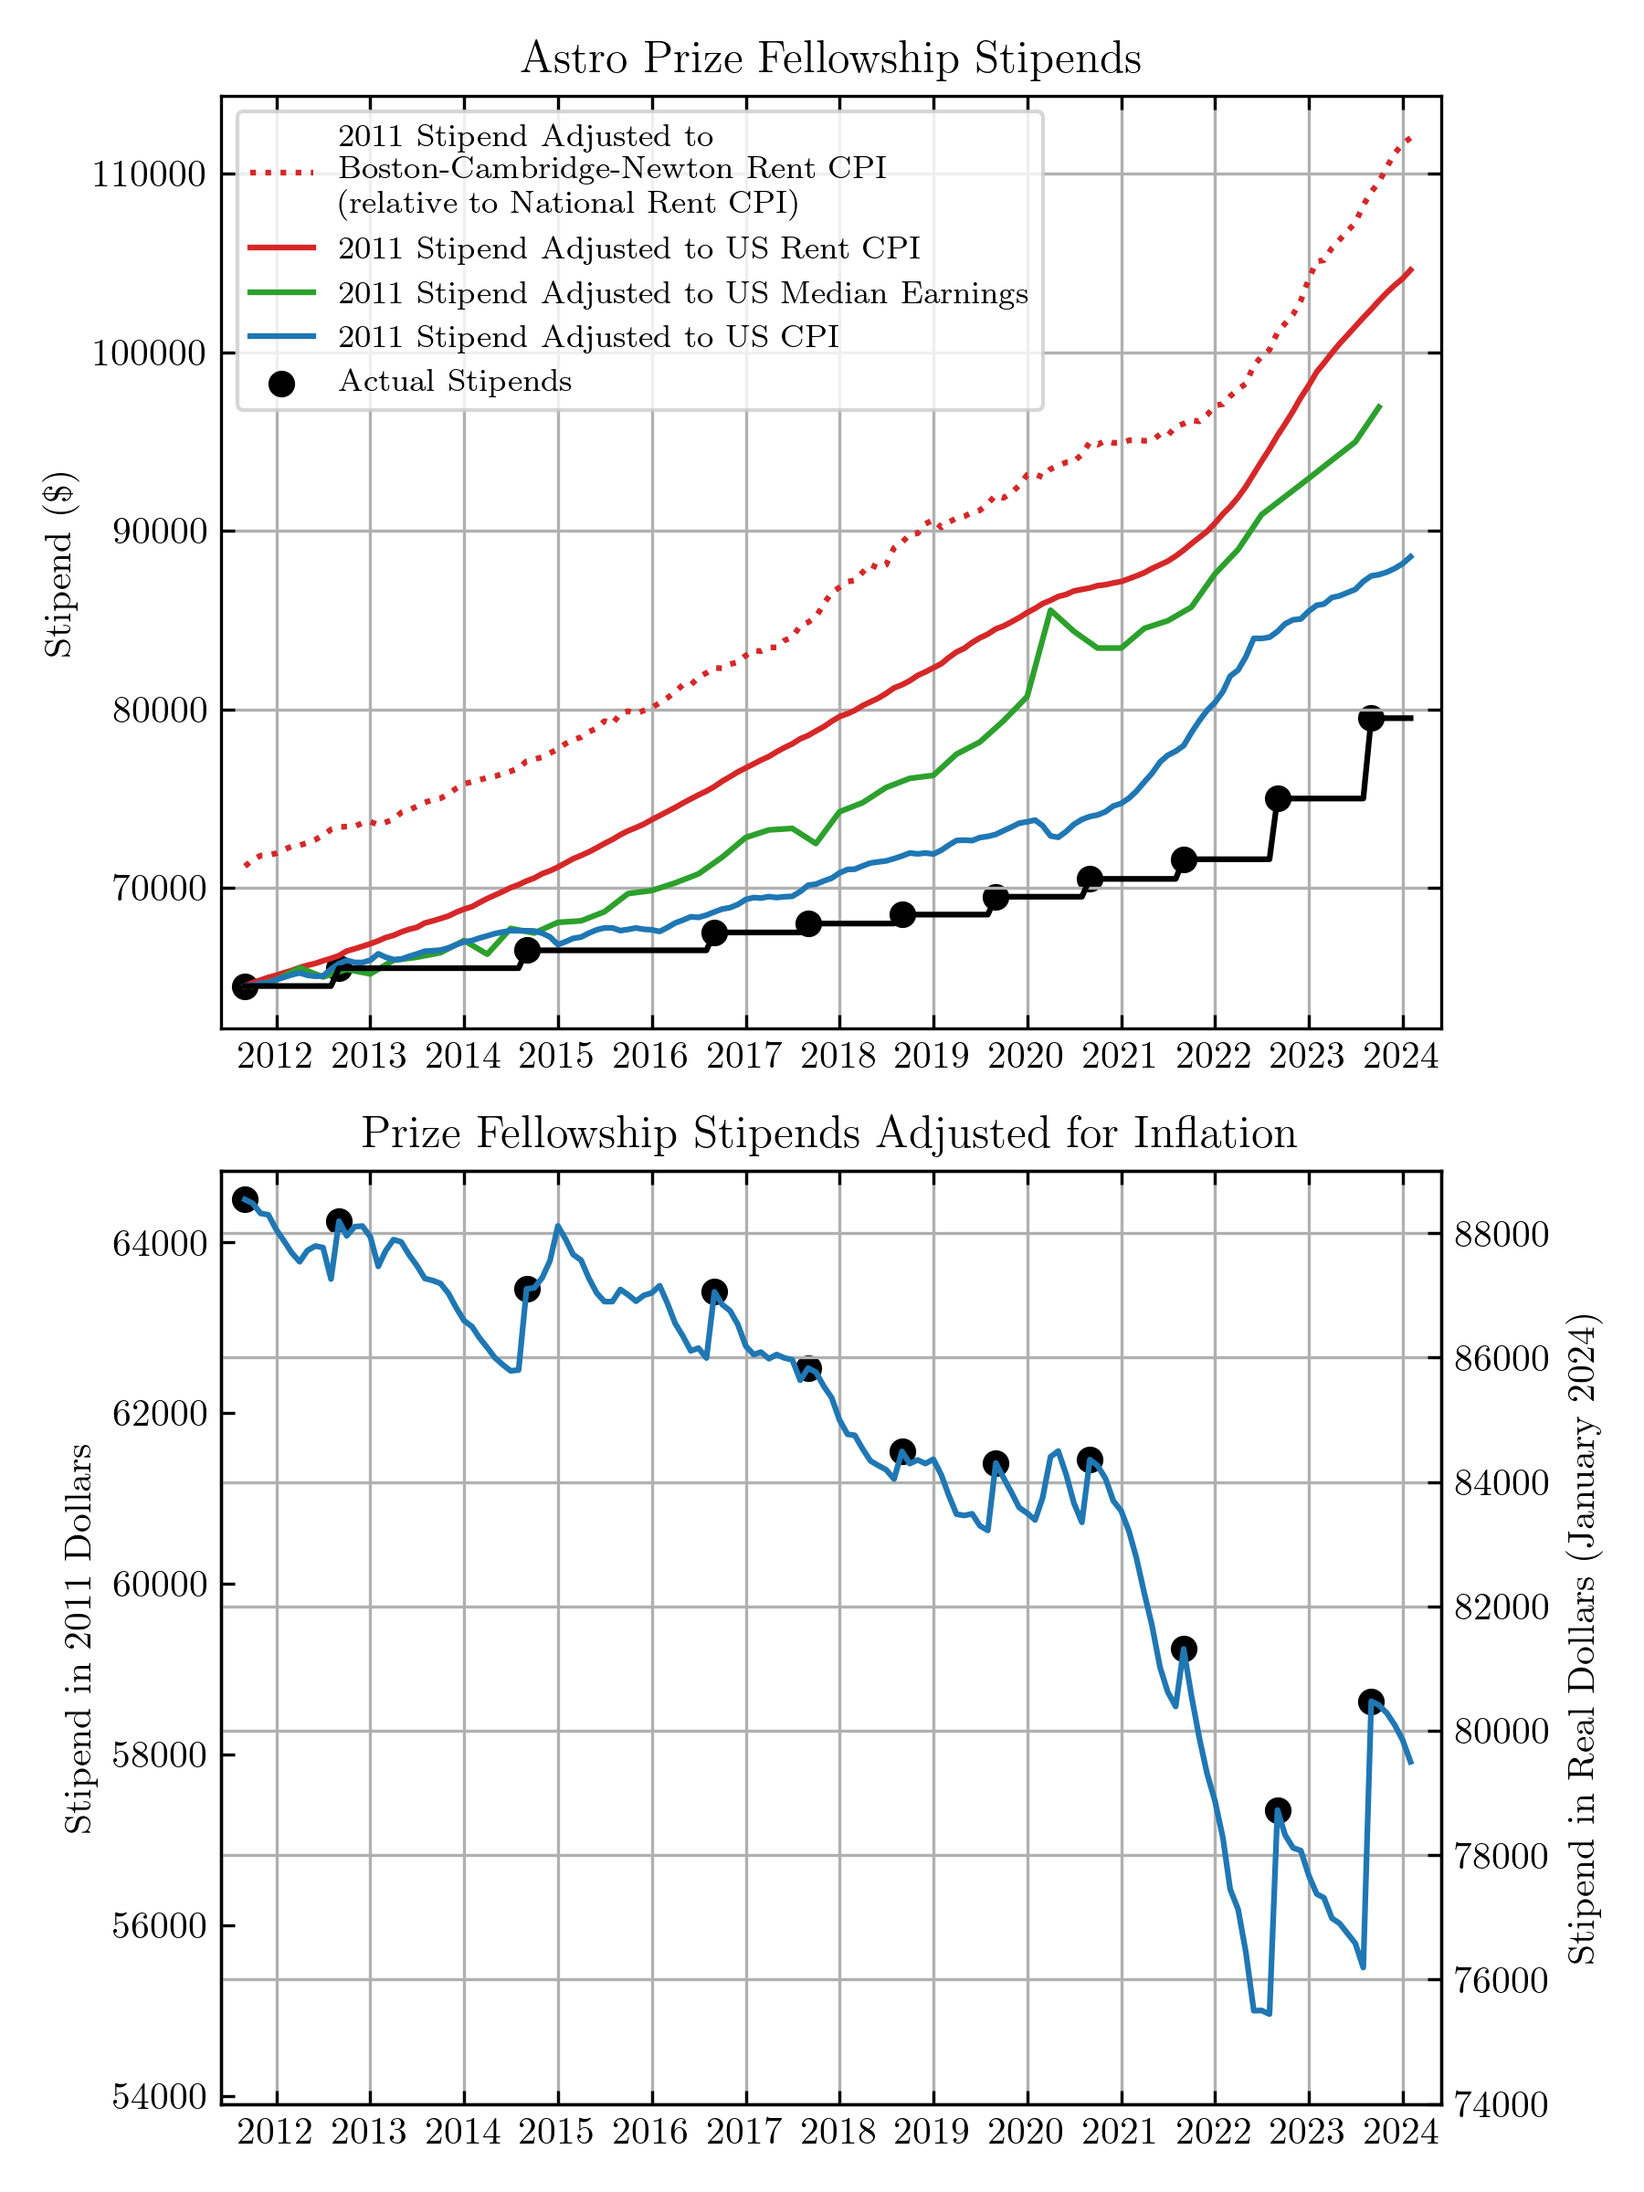
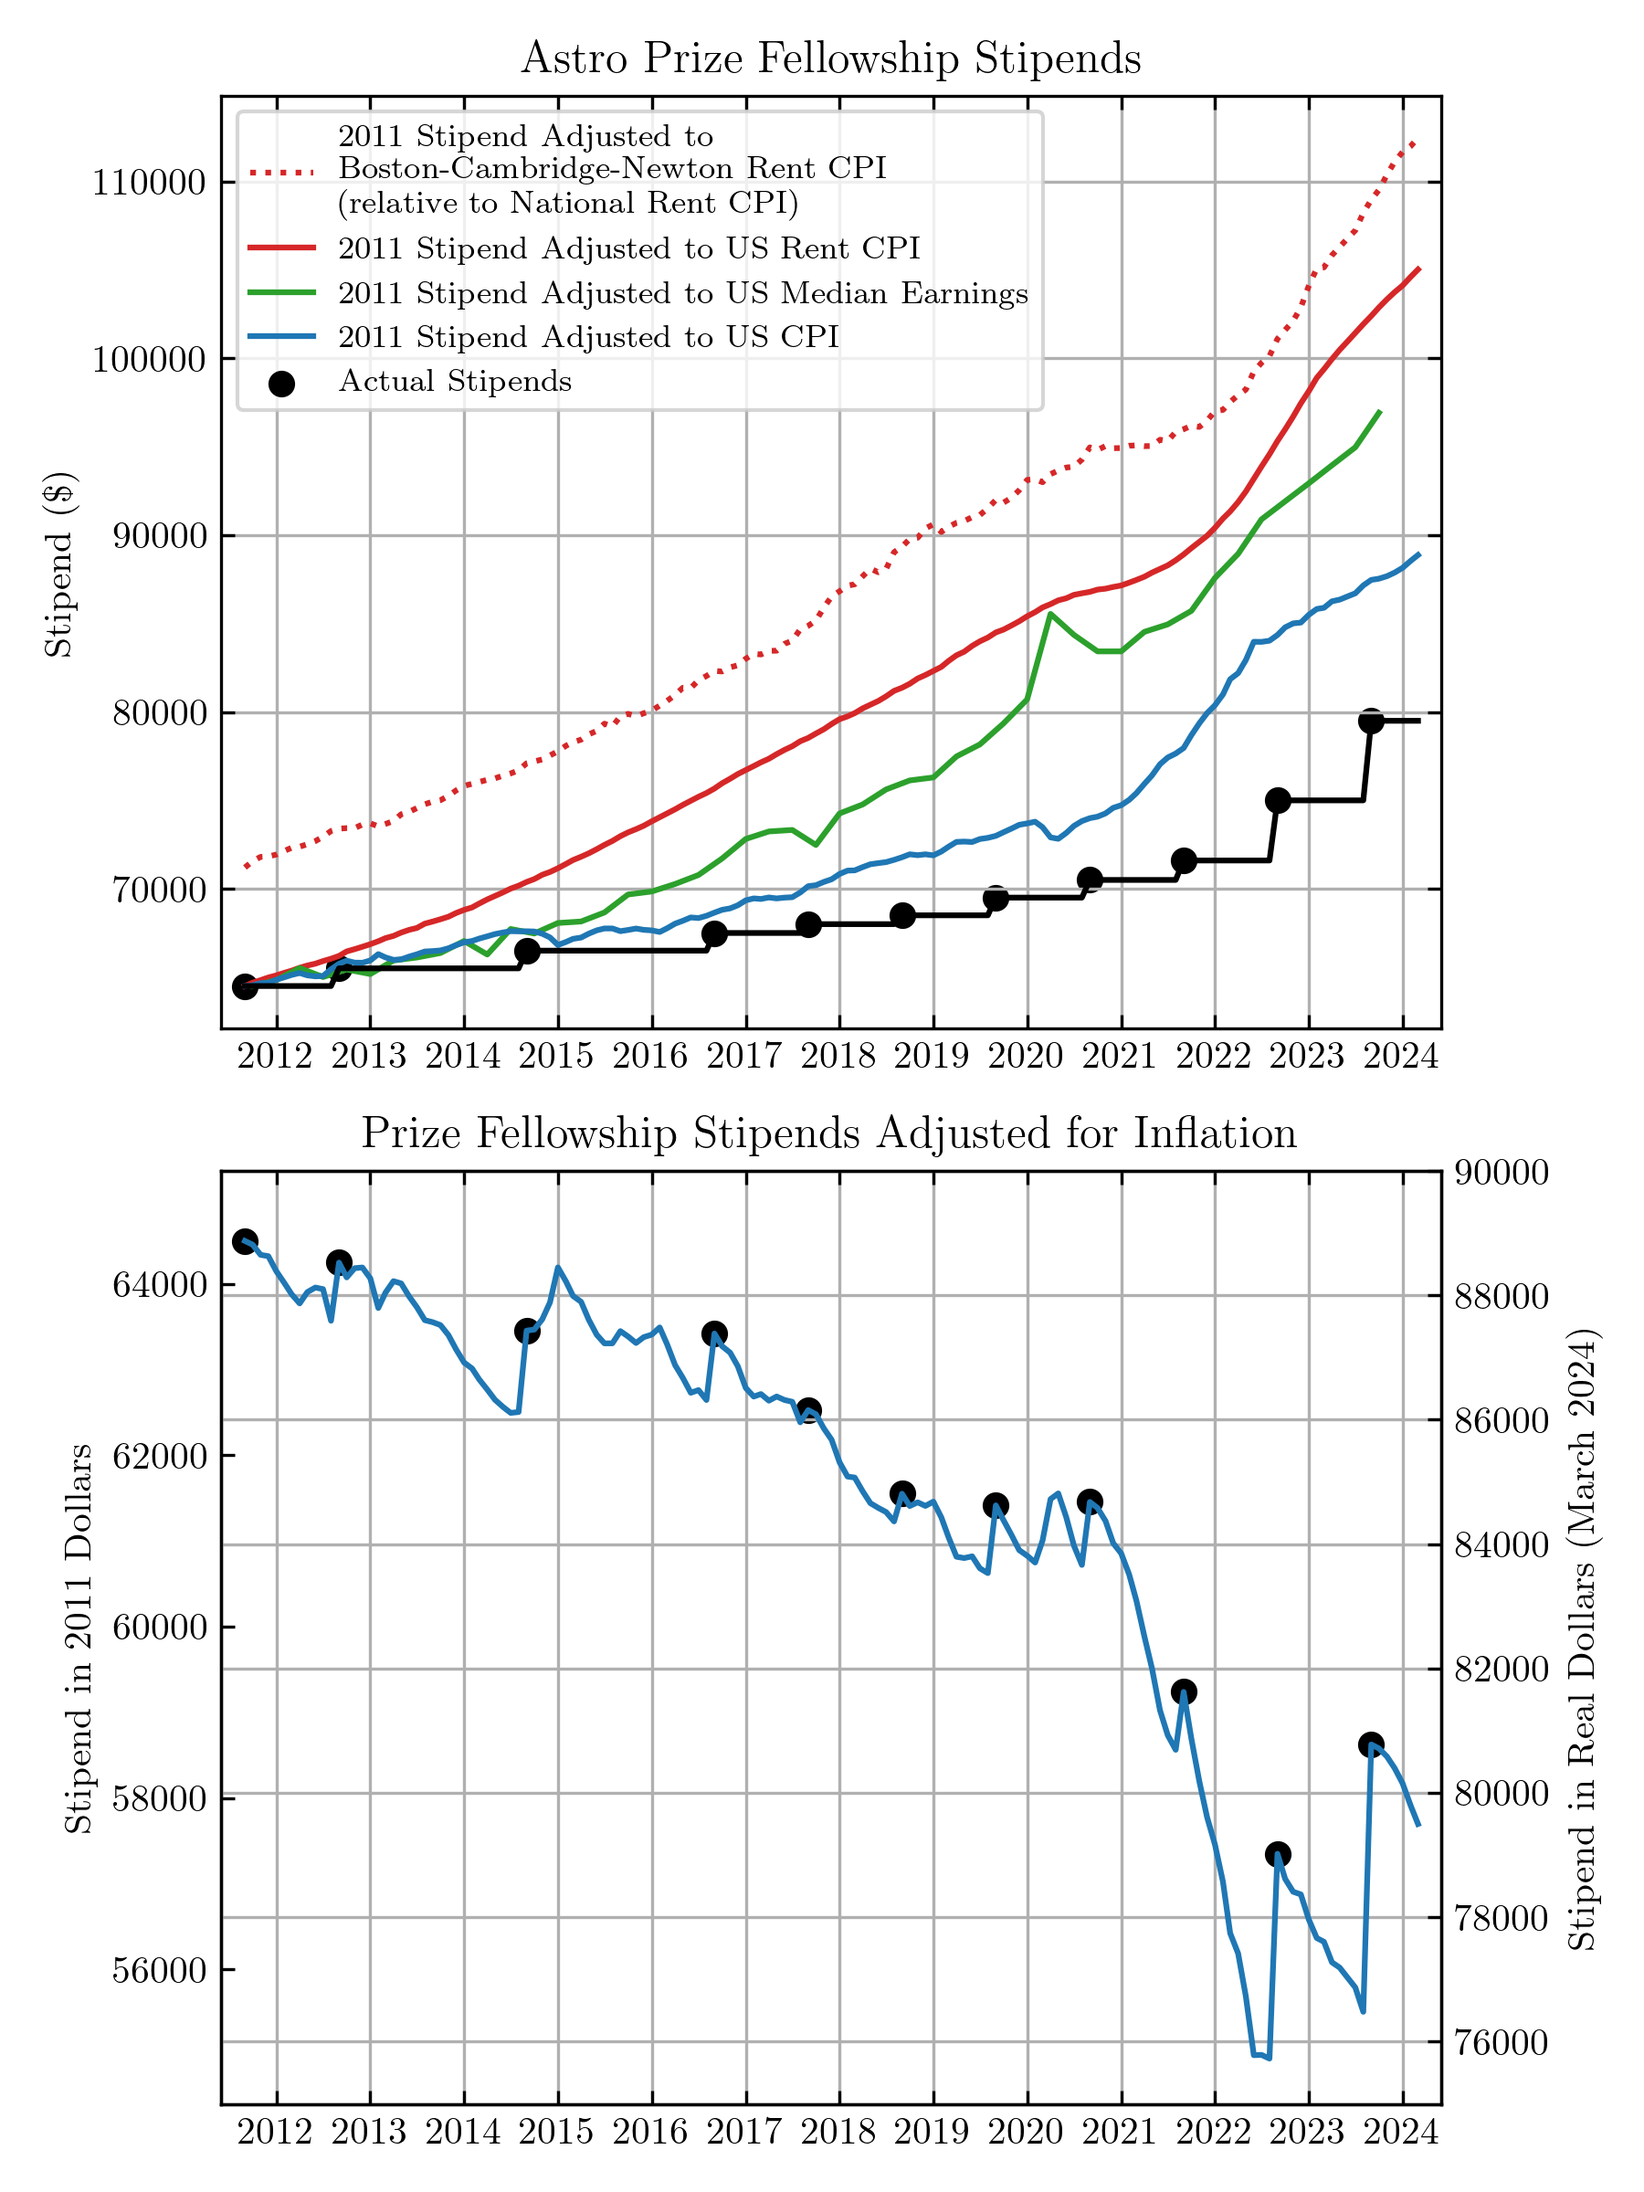
update for March CPI report

diff --git a/plot.py b/plot.py
@@ -83,11 +83,11 @@ ax[0].set_ylabel('Stipend (\$)')
 
 
 ax[1].set_title('Prize Fellowship Stipends Adjusted for Inflation')
-ymax = 89000
-ymin = 74000
+ymax = 90000
+ymin = 75000
 ax2 = ax[1].twinx()
 ax2.set_ylim(ymin,ymax)
-ax2.set_ylabel('Stipend in Real Dollars (January 2024)')
+ax2.set_ylabel('Stipend in Real Dollars (March 2024)')
 ax[1].grid(False,axis='y')
 ax[1].set_ylabel('Stipend in 2011 Dollars')
 ax[1].set_ylim(ymin*cpi[0]/cpi[-1],ymax*cpi[0]/cpi[-1])
@@ -122,5 +122,5 @@ for a in [ax[0],ax[1],ax2]:
     a.xaxis.set_major_formatter(date_form)
     a.set_xlim(start,end)
 
-plt.savefig('Stipends.png')
-#plt.savefig('Stipends.pdf')
+#plt.savefig('Stipends.png')
+plt.savefig('Stipends.pdf')
